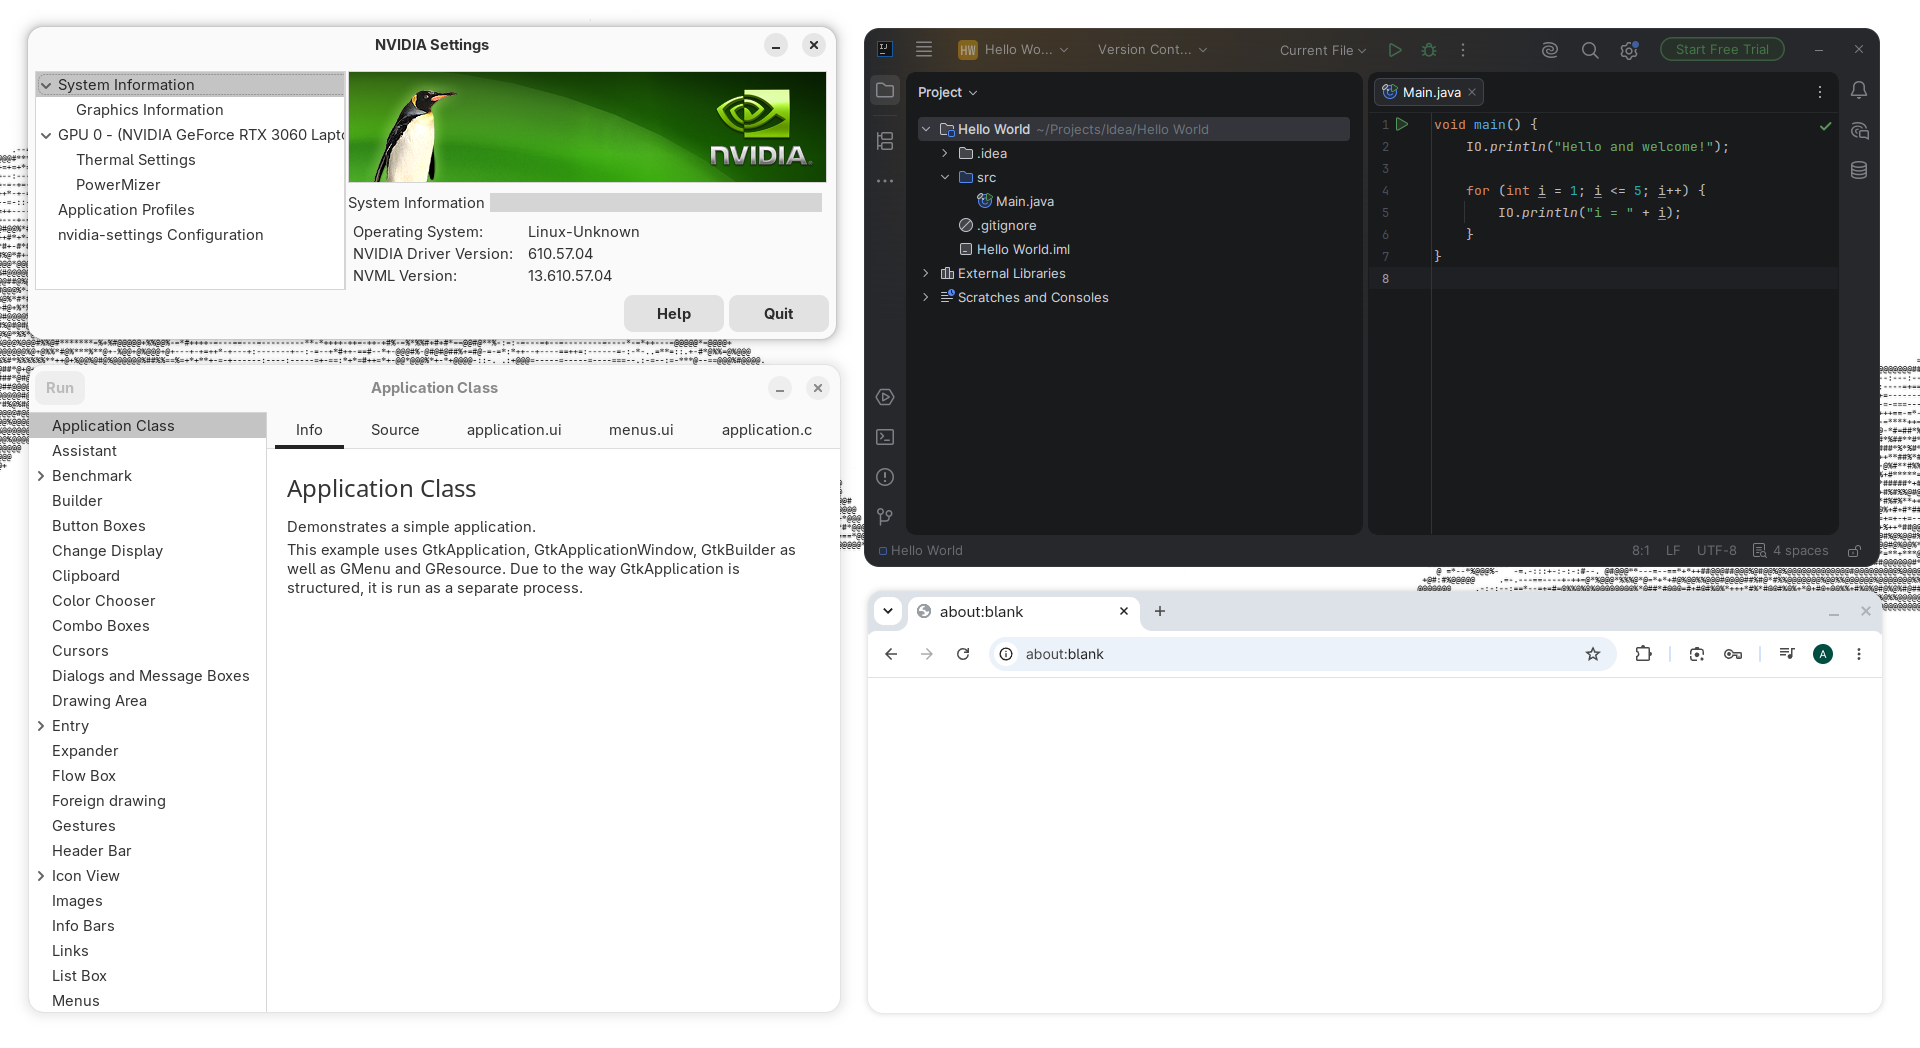
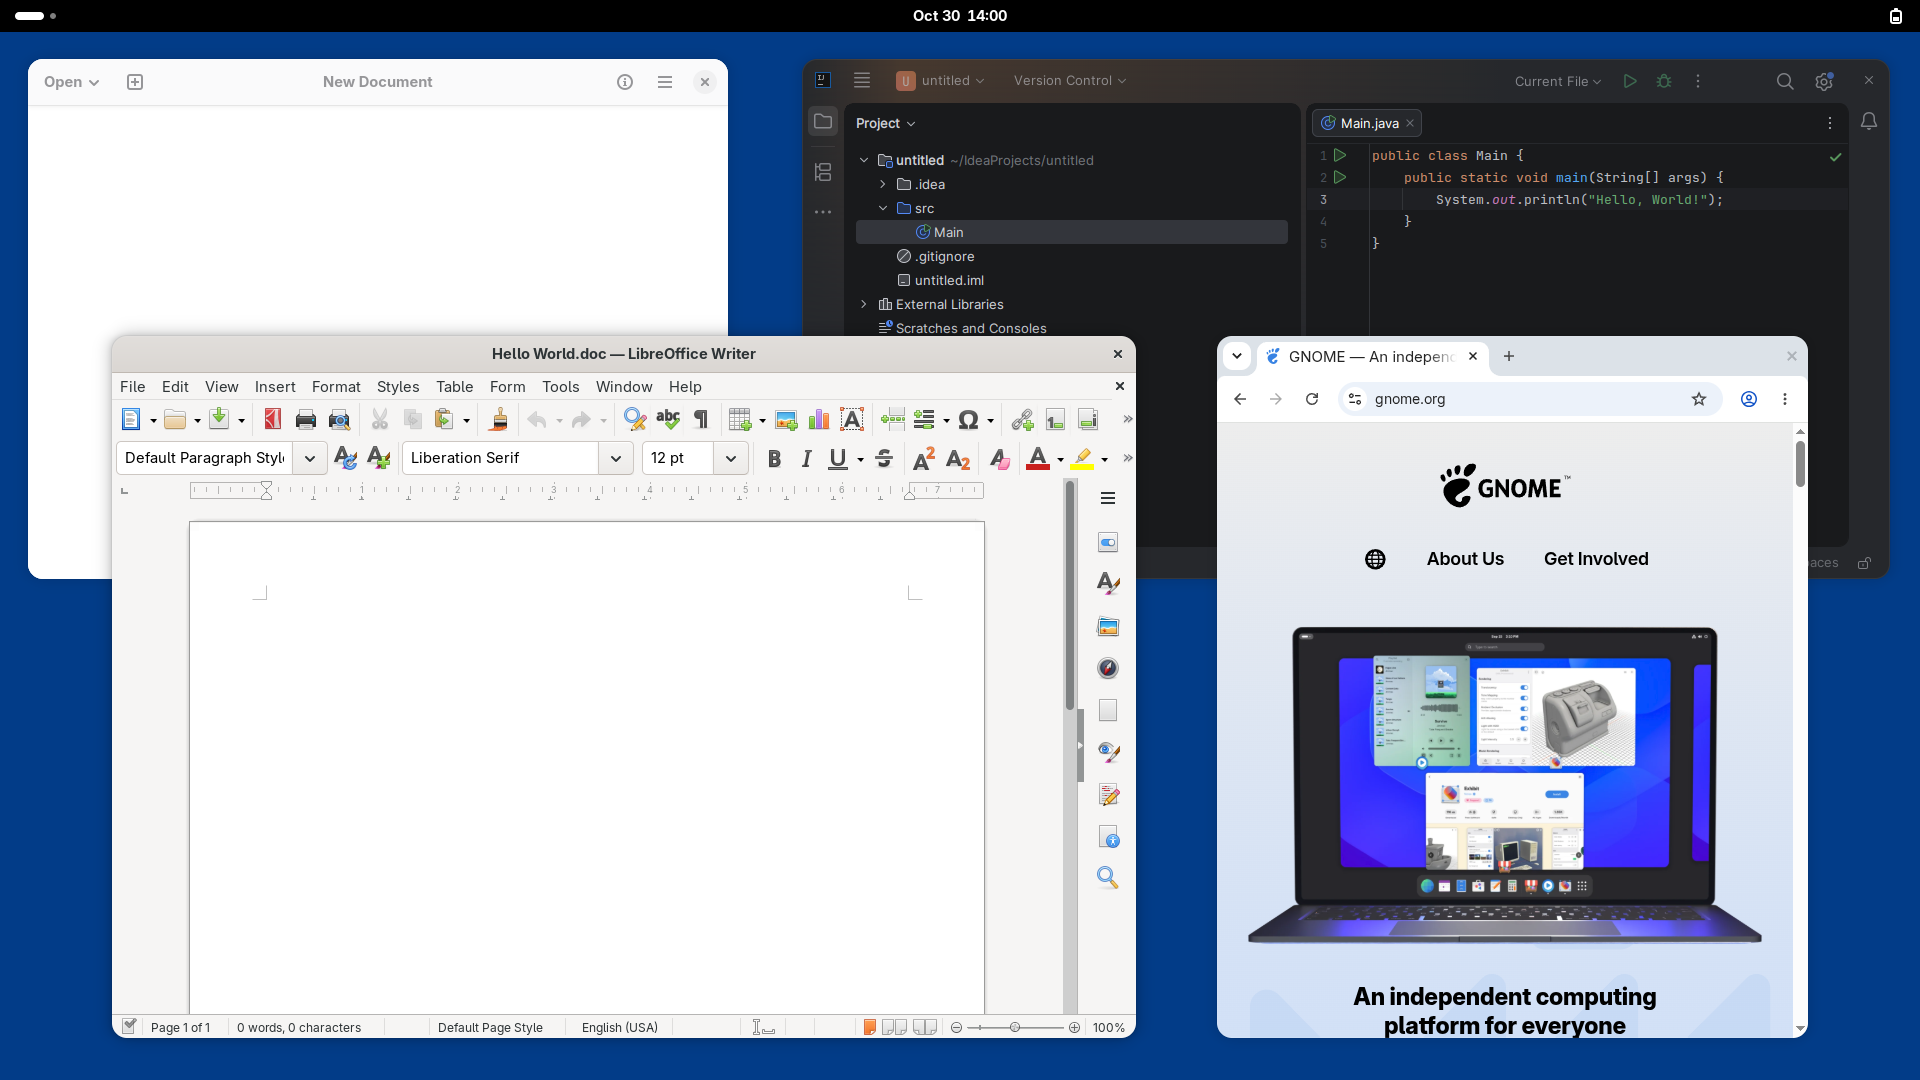
Update README screenshot and add GNOME Extensions badge

diff --git a/README.md b/README.md
@@ -1,18 +1,28 @@
-# Rounded Window Corners Native
+<div align="center">
+  <h1>Rounded Window Corners Native</h1>
+  <p><i>Rounds every window to match libadwaita. Nothing to configure.</i></p>
 
-Rounds every window to match libadwaita. Nothing to configure.
+  <a href="https://extensions.gnome.org/extension/10809/rounded-window-corners-native/">
+    <img src="https://img.shields.io/badge/Install%20from-extensions.gnome.org-4A86CF?style=for-the-badge&logo=Gnome&logoColor=white" alt="Install from GNOME Extensions" />
+  </a>
 
-![Light mode](data/screenshot.png)
+  <br>
 
-![Dark mode](data/screenshot-dark.png)
+  <a href="https://extensions.gnome.org/extension/10809/rounded-window-corners-native/">
+    <img src="https://img.shields.io/badge/GNOME_Shell-51-blue" alt="GNOME Shell Version" />
+  </a>
+  <a href="LICENSE">
+    <img src="https://img.shields.io/github/license/ztrahmet/rounded-window-corners" alt="License" />
+  </a>
+</div>
 
-GNOME only rounds apps built with libadwaita. GTK3, Qt, Electron, Java and most terminals
-stay square. This extension gives them the same corners, hairline outline and shadow that
-libadwaita draws, so every window looks like it belongs.
+<br>
 
-In the shots above, NVIDIA Settings and the GTK3 demo are GTK3, IntelliJ IDEA is Java and
-draws its own window decorations, and Chromium is bottom right. All four are rounded by
-this extension.
+![Screenshot](data/screenshot.png)
+
+Gives GTK3, Qt, Electron, Java, and all other apps the exact corners, border, and shadow of native libadwaita windows.
+
+In the screenshot above, Text Editor (top left) is built with **libadwaita**. IntelliJ IDEA (top right) is Java, LibreOffice (bottom left) is GTK3, and Chromium (bottom right) is GTK. All non-libadwaita windows are rounded by this extension to seamlessly match.
 
 Requires GNOME Shell 51.
 
